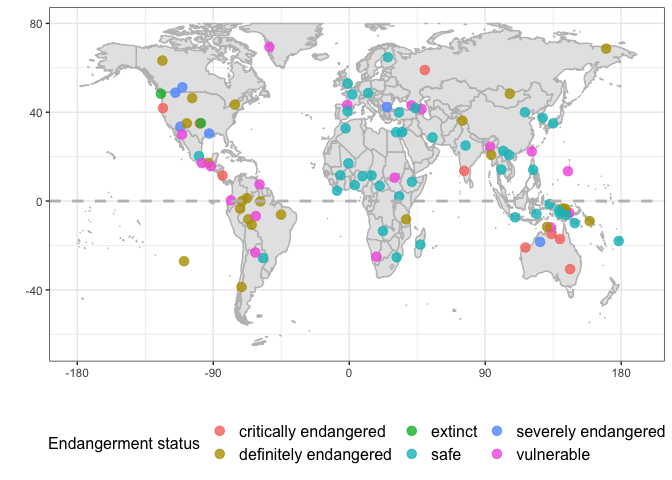
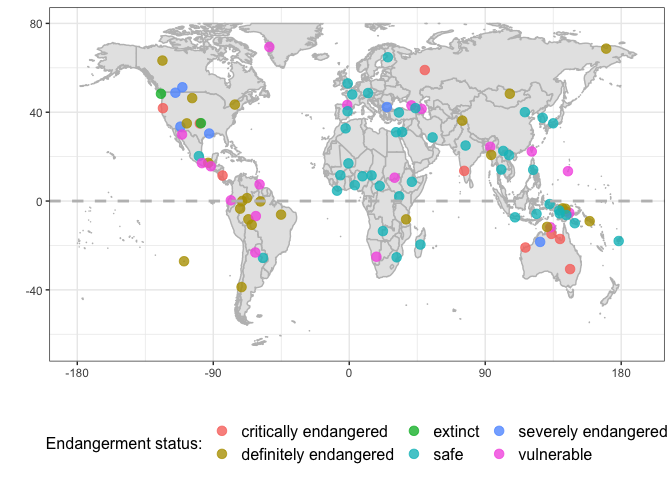
adds various maps

Changed region(s): [[0.3125, 0.875, 1.0, 0.9688], [0.0625, 0.9062, 0.3125, 0.9375]]

diff --git a/Reports/maps/maps.md b/Reports/maps/maps.md
@@ -2,7 +2,7 @@ Generate world maps from the 100LC language sample
 ================
 Steven Moran and Chris Bentz
 
-10 November, 2021
+15 November, 2021
 
 ``` r
 library(tidyverse)
@@ -79,7 +79,7 @@ status_map <- ggplot() +
   scale_y_continuous(limits = c(-65, 80)) +
   scale_x_continuous(breaks = c(-180, -90, 0, 90, 180)) +
   geom_hline(aes(yintercept = 0), colour = "grey", size = 1, linetype = 2) +
-  labs(x = "longitude", y = "latitude", color = "Endangerment status") +
+  labs(x = "longitude", y = "latitude", color = "Endangerment status:") +
   ggtitle("Language status information from Glottolog") +
   theme_bw() +
   theme(axis.title.x = element_text(size = 12),
@@ -109,7 +109,7 @@ status_map <- ggplot() +
   scale_y_continuous(limits = c(-65, 80)) +
   scale_x_continuous(breaks = c(-180, -90, 0, 90, 180)) +
   geom_hline(aes(yintercept = 0), colour = "grey", size = 1, linetype = 2) +
-  labs(x = "", y = "", color = "Endangerment status") +
+  labs(x = "", y = "", color = "Endangerment status:") +
   theme_bw() +
   theme(axis.title.x = element_text(size = 12),
         axis.title.y = element_text(size = 12),
@@ -148,7 +148,7 @@ status_map <- ggplot() +
   scale_y_continuous(limits = c(-65, 80)) +
   scale_x_continuous(breaks = c(-180, -90, 0, 90, 180)) +
   geom_hline(aes(yintercept = 0), colour = "grey", size = 1, linetype = 2) +
-  labs(x = "", y = "", color = "Endangerment status") +
+  labs(x = "", y = "", color = "Endangerment status:") +
   theme_bw() +
   theme(axis.title.x = element_text(size = 12),
         axis.title.y = element_text(size = 12),
@@ -160,6 +160,126 @@ status_map
 ```
 
 ![](maps_files/figure-gfm/unnamed-chunk-7-1.png)<!-- -->
+
+``` r
+# ggsave("worldmap_status.pdf", status_map, dpi = 300, scale = 1, device = cairo_pdf)
+```
+
+Map it with smaller text and closer legend.
+
+``` r
+world <- map_data("world")
+status_map <- ggplot() + 
+  geom_polygon(data = world, aes(x = long, y = lat, group = group), 
+               fill = "grey90", col = "grey") +
+  geom_point(data = minimal_el_status, aes(x = longitude_glotto, y = latitude_glotto, colour = status), 
+             alpha = 0.8, size = 3) +
+  scale_y_continuous(limits = c(-65, 85)) +
+  scale_x_continuous(breaks = c(-180, -90, 0, 90, 180)) +
+  geom_hline(aes(yintercept = 0), colour = "grey", size = 1, linetype = 2) +
+  labs(x = "", y = "", color = "Endangerment status:") +
+  theme_bw() +
+  theme(legend.title = element_text(size = 10),
+        legend.text = element_text(size = 10),
+        legend.position = "bottom",
+        legend.margin=margin(0,0,0,0),
+        legend.box.margin=margin(-25,0,0,0))
+status_map
+```
+
+![](maps_files/figure-gfm/unnamed-chunk-8-1.png)<!-- -->
+
+``` r
+# ggsave("worldmap_status.pdf", status_map, dpi = 300, scale = 1, device = cairo_pdf)
+```
+
+Map it with smaller text and closer legend and remove axes.
+
+``` r
+world <- map_data("world")
+status_map <- ggplot() + 
+  geom_polygon(data = world, aes(x = long, y = lat, group = group), 
+               fill = "grey90", col = "grey") +
+  geom_point(data = minimal_el_status, aes(x = longitude_glotto, y = latitude_glotto, colour = status), 
+             alpha = 0.8, size = 3) +
+  scale_y_continuous(limits = c(-65, 85)) +
+  scale_x_continuous(breaks = c(-180, -90, 0, 90, 180)) +
+  geom_hline(aes(yintercept = 0), colour = "grey", size = 1, linetype = 2) +
+  labs(x = "", y = "", color = "Endangerment status:") +
+  theme_bw() +
+  theme(legend.title = element_text(size = 10),
+        legend.text = element_text(size = 10),
+        legend.position = "bottom",
+        legend.margin=margin(0,0,0,0),
+        legend.box.margin=margin(-25,0,0,0),
+        axis.text.x=element_blank(),
+        axis.ticks.x=element_blank(),
+        axis.text.y=element_blank(),
+        axis.ticks.y=element_blank())
+status_map
+```
+
+![](maps_files/figure-gfm/unnamed-chunk-9-1.png)<!-- -->
+
+``` r
+ggsave("worldmap_status.pdf", status_map, dpi = 300, scale = 1, device = cairo_pdf)
+```
+
+    ## Saving 7 x 5 in image
+
+Map it with legend on the side.
+
+``` r
+world <- map_data("world")
+status_map <- ggplot() + 
+  geom_polygon(data = world, aes(x = long, y = lat, group = group), 
+               fill = "grey90", col = "grey") +
+  geom_point(data = minimal_el_status, aes(x = longitude_glotto, y = latitude_glotto, colour = status), 
+             alpha = 0.8, size = 3) +
+  scale_y_continuous(limits = c(-65, 80)) +
+  scale_x_continuous(breaks = c(-180, -90, 0, 90, 180)) +
+  geom_hline(aes(yintercept = 0), colour = "grey", size = 1, linetype = 2) +
+  labs(x = "", y = "", color = "Endangerment status:") +
+  theme_bw() +
+  theme(axis.title.x = element_text(size = 12),
+        axis.title.y = element_text(size = 12),
+        title = element_text(size = 12),
+        legend.title = element_text(size = 12),
+        legend.text = element_text(size = 12),
+        legend.position = "right")
+status_map
+```
+
+![](maps_files/figure-gfm/unnamed-chunk-10-1.png)<!-- -->
+
+``` r
+# ggsave("worldmap_status.pdf", status_map, dpi = 300, scale = 1, device = cairo_pdf)
+```
+
+Map it with legend on the left side.
+
+``` r
+world <- map_data("world")
+status_map <- ggplot() + 
+  geom_polygon(data = world, aes(x = long, y = lat, group = group), 
+               fill = "grey90", col = "grey") +
+  geom_point(data = minimal_el_status, aes(x = longitude_glotto, y = latitude_glotto, colour = status), 
+             alpha = 0.8, size = 3) +
+  scale_y_continuous(limits = c(-65, 80)) +
+  scale_x_continuous(breaks = c(-180, -90, 0, 90, 180)) +
+  geom_hline(aes(yintercept = 0), colour = "grey", size = 1, linetype = 2) +
+  labs(x = "", y = "", color = "Endangerment status:") +
+  theme_bw() +
+  theme(axis.title.x = element_text(size = 12),
+        axis.title.y = element_text(size = 12),
+        title = element_text(size = 12),
+        legend.title = element_text(size = 12),
+        legend.text = element_text(size = 12),
+        legend.position = "left")
+status_map
+```
+
+![](maps_files/figure-gfm/unnamed-chunk-11-1.png)<!-- -->
 
 ``` r
 # ggsave("worldmap_status.pdf", status_map, dpi = 300, scale = 1, device = cairo_pdf)
@@ -189,7 +309,7 @@ family_map <- ggplot() +
 family_map
 ```
 
-![](maps_files/figure-gfm/unnamed-chunk-8-1.png)<!-- -->
+![](maps_files/figure-gfm/unnamed-chunk-12-1.png)<!-- -->
 
 ``` r
 # ggsave("family_map.pdf", family_map, dpi = 300, scale = 1, device = cairo_pdf)
@@ -211,14 +331,14 @@ macroarea_map <- ggplot() +
   ggtitle("Macroarea information from Glottolog") +
   theme_bw() +
   theme(axis.title.x = element_text(size = 12),
-        axis.title.y = element_text(size = 12),
+          axis.title.y = element_text(size = 12),
         title = element_text(size = 12),
         legend.title = element_text(size = 12),
         legend.text = element_text(size = 12))
 macroarea_map
 ```
 
-![](maps_files/figure-gfm/unnamed-chunk-9-1.png)<!-- -->
+![](maps_files/figure-gfm/unnamed-chunk-13-1.png)<!-- -->
 
 ``` r
 # ggsave("macroarea_map.pdf", macroarea_map, dpi = 300, scale = 1, device = cairo_pdf)
@@ -267,7 +387,7 @@ ws_map <- ggplot() +
 ws_map
 ```
 
-![](maps_files/figure-gfm/unnamed-chunk-12-1.png)<!-- -->
+![](maps_files/figure-gfm/unnamed-chunk-16-1.png)<!-- -->
 
 ``` r
 # ggsave("ws_map.pdf", macroarea_map, dpi = 300, scale = 1, device = cairo_pdf)
@@ -346,7 +466,7 @@ word_tokens <- ggplot() +
 word_tokens
 ```
 
-![](maps_files/figure-gfm/unnamed-chunk-16-1.png)<!-- -->
+![](maps_files/figure-gfm/unnamed-chunk-20-1.png)<!-- -->
 
 ``` r
 # ggsave("word_tokens.pdf", macroarea_map, dpi = 300, scale = 1, device = cairo_pdf)
@@ -391,7 +511,7 @@ word_types <- ggplot() +
 word_types
 ```
 
-![](maps_files/figure-gfm/unnamed-chunk-19-1.png)<!-- -->
+![](maps_files/figure-gfm/unnamed-chunk-23-1.png)<!-- -->
 
 ``` r
 # ggsave("word_types.pdf", macroarea_map, dpi = 300, scale = 1, device = cairo_pdf)
